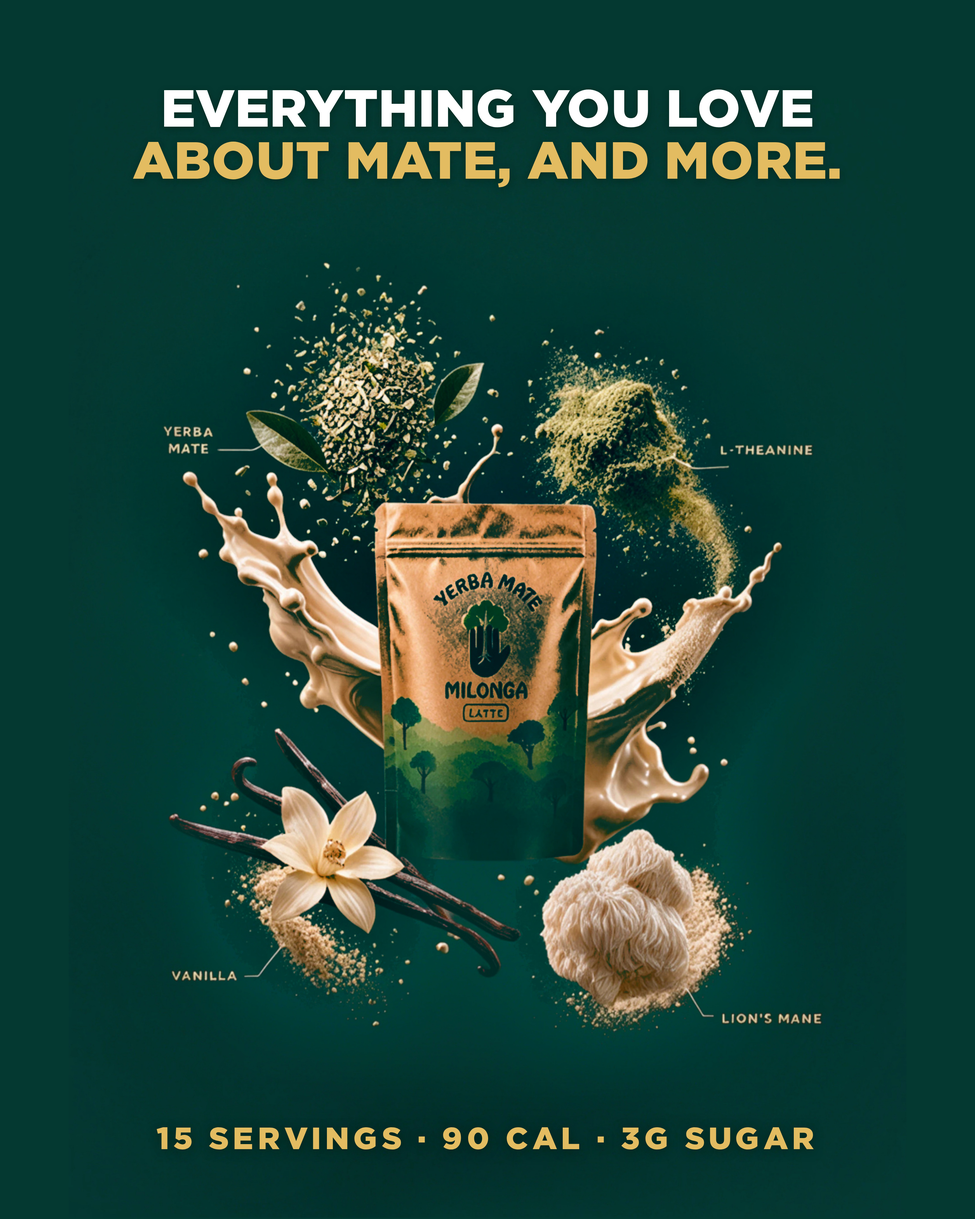
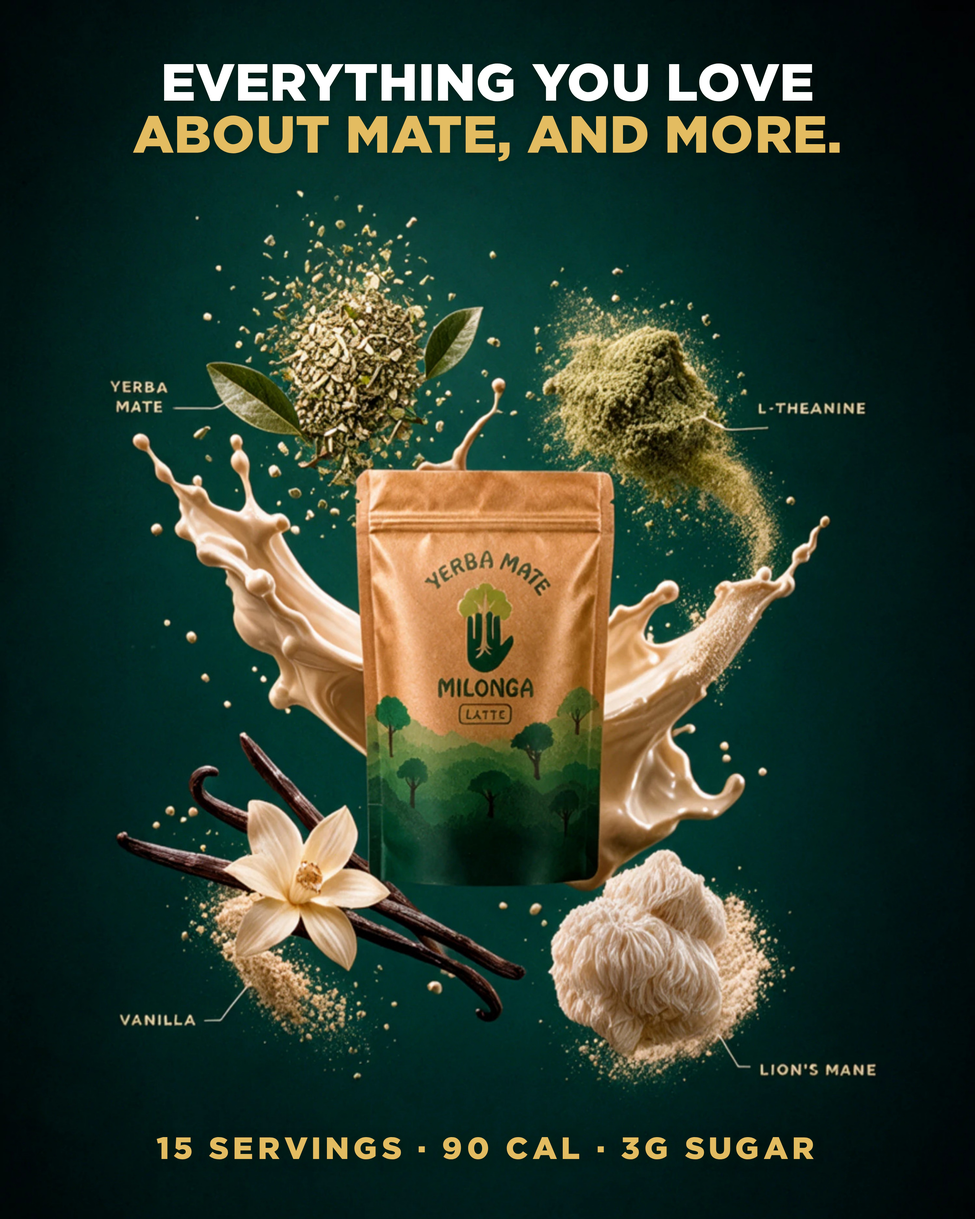
carousel: slide 5 takes the photograph as shot
The flattened ground went too far — an even green is not this picture's
background, and the still life read as a processed cut-out sitting on a
colour. Reverted: no rebuilt ground, no scaled-down picture, no
build-splash-ground.mjs. The native file goes in full width, its own vignette
intact.

The room for the type comes out of the CROP instead. Source is 1500 x 2003
against a 600 x 750 frame, so width binds and 51 design units of height
overflow; anchoring to the top spends all 51 at the foot rather than splitting
them, which recovers the whole of the photograph's own empty sky. Measured
against that crop the composition runs 112 to 680 of the 750, so the title at
padY 36 clears it by 12 units and the spec line at bottom 28 by 15.

Claude-Session: https://claude.ai/code/session_01NhEtXPnfeCJfN73SqBkUZ5

diff --git a/email-ds/emails/carousel/mate-latte-why.jsx b/email-ds/emails/carousel/mate-latte-why.jsx
@@ -11,11 +11,9 @@ const IMG = {
   counter: '../public/product/latte-counter.jpg',
   gourd: '../public/product/mate-gourd.png',
   cup: '../public/product/latte-cup-top.png',
-  // The still life re-laid for a 4:5 frame, by scripts/build-splash-ground.mjs:
-  // the native shot's vignette is flattened to one even green and the
-  // composition is placed in the middle, so the title and the spec line each
-  // have ground of their own instead of landing on the leaf splash.
-  splash: '../public/product/ingredient-splash-45.jpg',
+  // The still life exactly as shot — its own background, its own vignette,
+  // nothing rebuilt and nothing scaled down inside the frame.
+  splash: '../public/product/ingredient-splash.jpg',
   jar: '../public/product/jar-in-hand.png',
 };
 
@@ -95,13 +93,21 @@ function CarouselMateLatteWhy() {
     // 5 · THE ASK. The ingredient still life carries the argument, so the only
     // type it needs is the promise and the facts. The spec line is set in the
     // same gold caps the photograph already labels itself with.
-    S({ src: IMG.splash, align: 'top', padX: 48, padY: 52 },
+    // THE CROP IS WHERE THE ROOM COMES FROM. The picture goes in full width
+    // and untouched, so the only thing left to move is which 4:5 slice of it
+    // the frame shows. Source is 1500 x 2003 and the frame is 600 x 750, so
+    // width binds and 51 design units of height overflow. Anchoring the crop
+    // to the TOP spends all 51 at the foot instead of splitting them, which
+    // buys back the whole of the photograph's own empty sky.
+    //
+    // Measured against that crop: the composition runs 112 to 680 of the 750,
+    // so the title clears it by 12 units and the spec line by 15. Tight — but
+    // that is the honest ceiling on a picture that fills its own frame, and
+    // both bands of type sit on the photograph's own dark green.
+    S({ src: IMG.splash, focus: 'center top', align: 'top', padX: 48, padY: 36 },
       h(M.SlideTitle, { line1: 'Everything you love', line2: 'about mate, and more.',
         size: 32, lead: 1.0, align: 'center', color: '#FFFFFF', color2: '#E3BC62', onPhoto: true }),
-      // 34 off the foot, against the title's 52 off the head: the picture's
-      // content band runs 157 to 645, so that leaves 41 units of air above it
-      // and 44 below — the same gap, top and bottom.
-      h('div', { style: { position: 'absolute', left: 0, right: 0, bottom: 34, padding: '0 40px', textAlign: 'center' } },
+      h('div', { style: { position: 'absolute', left: 0, right: 0, bottom: 28, padding: '0 40px', textAlign: 'center' } },
         h('div', { style: { fontFamily: 'Gotham, Montserrat, sans-serif', fontWeight: 900,
           fontSize: 19, letterSpacing: '0.13em', textTransform: 'uppercase', color: '#E3BC62',
           lineHeight: 1.4, textShadow: '0 1px 6px rgba(0,26,13,0.6)' } },

diff --git a/email-ds/social/README.md b/email-ds/social/README.md
@@ -64,7 +64,7 @@ node scripts/shoot-carousel.mjs carousel-<name>.html social/<name>-4k 5.12
 ```
 
 The type is drawn at that size, so it is genuinely 4K sharp. The photographs
-are not: the source files are 1080–1500px wide, so they are upsampled and hold
+are not: the source files are 1080-1500px wide, so they are upsampled and hold
 no detail the 1080 version does not. Instagram re-encodes anything wider than
 1080 anyway — the master is for print, stories and anywhere else the same
 artwork has to go bigger.
